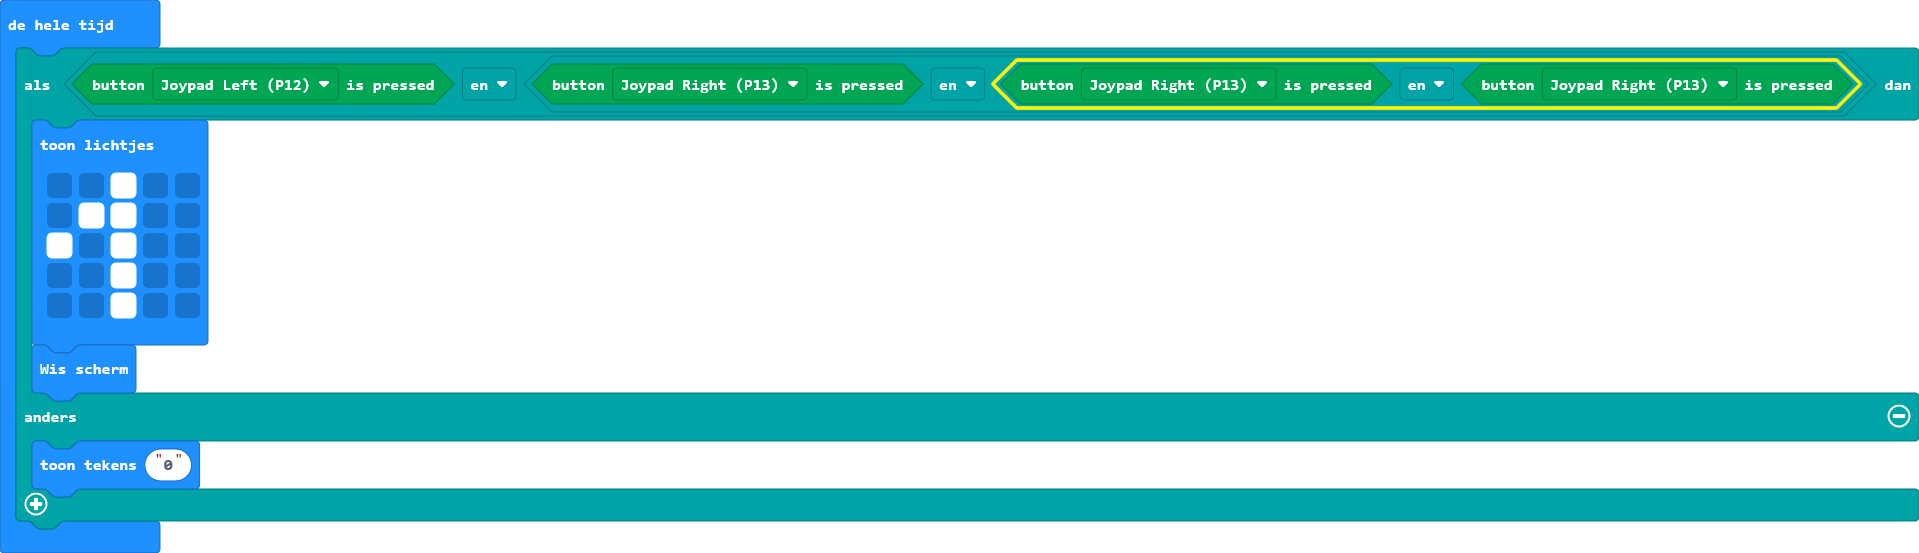
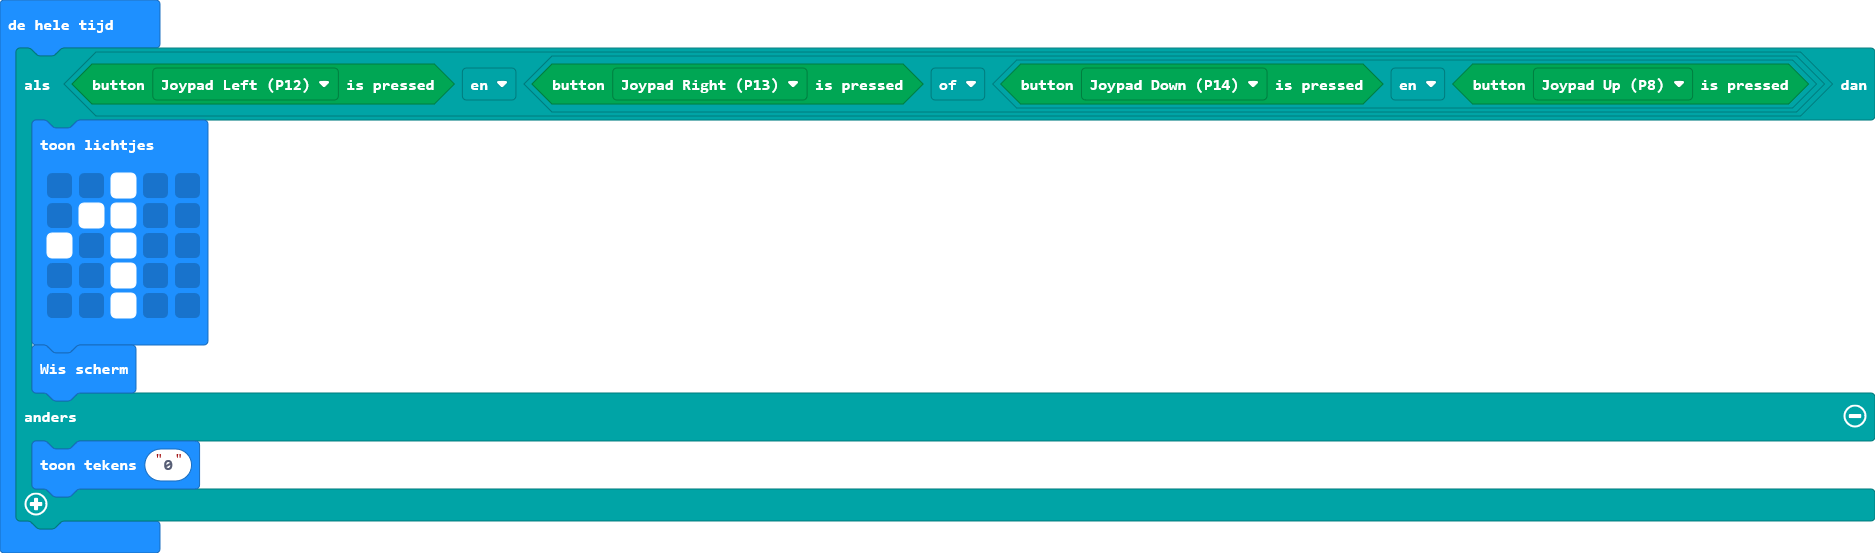
main.blocks, main.ts bijwerken

diff --git a/main.ts b/main.ts
@@ -1,5 +1,5 @@
 basic.forever(function () {
-    if (Kitronik_Game_Controller.buttonIsPressed(Kitronik_Game_Controller.ControllerButtonPins.Left) && (Kitronik_Game_Controller.buttonIsPressed(Kitronik_Game_Controller.ControllerButtonPins.Right) && (Kitronik_Game_Controller.buttonIsPressed(Kitronik_Game_Controller.ControllerButtonPins.Right) && Kitronik_Game_Controller.buttonIsPressed(Kitronik_Game_Controller.ControllerButtonPins.Right)))) {
+    if (Kitronik_Game_Controller.buttonIsPressed(Kitronik_Game_Controller.ControllerButtonPins.Left) && (Kitronik_Game_Controller.buttonIsPressed(Kitronik_Game_Controller.ControllerButtonPins.Right) || Kitronik_Game_Controller.buttonIsPressed(Kitronik_Game_Controller.ControllerButtonPins.Down) && Kitronik_Game_Controller.buttonIsPressed(Kitronik_Game_Controller.ControllerButtonPins.Up))) {
         basic.showLeds(`
             . . # . .
             . # # . .
